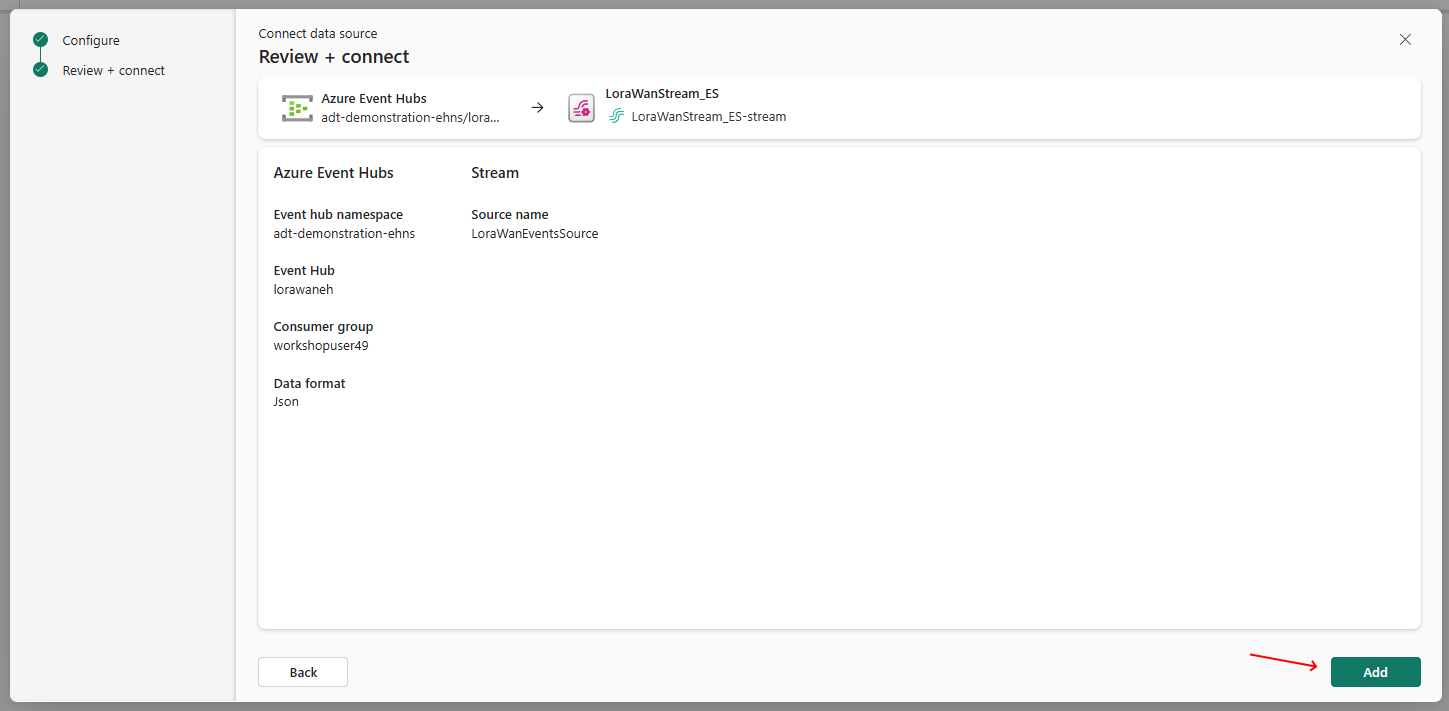
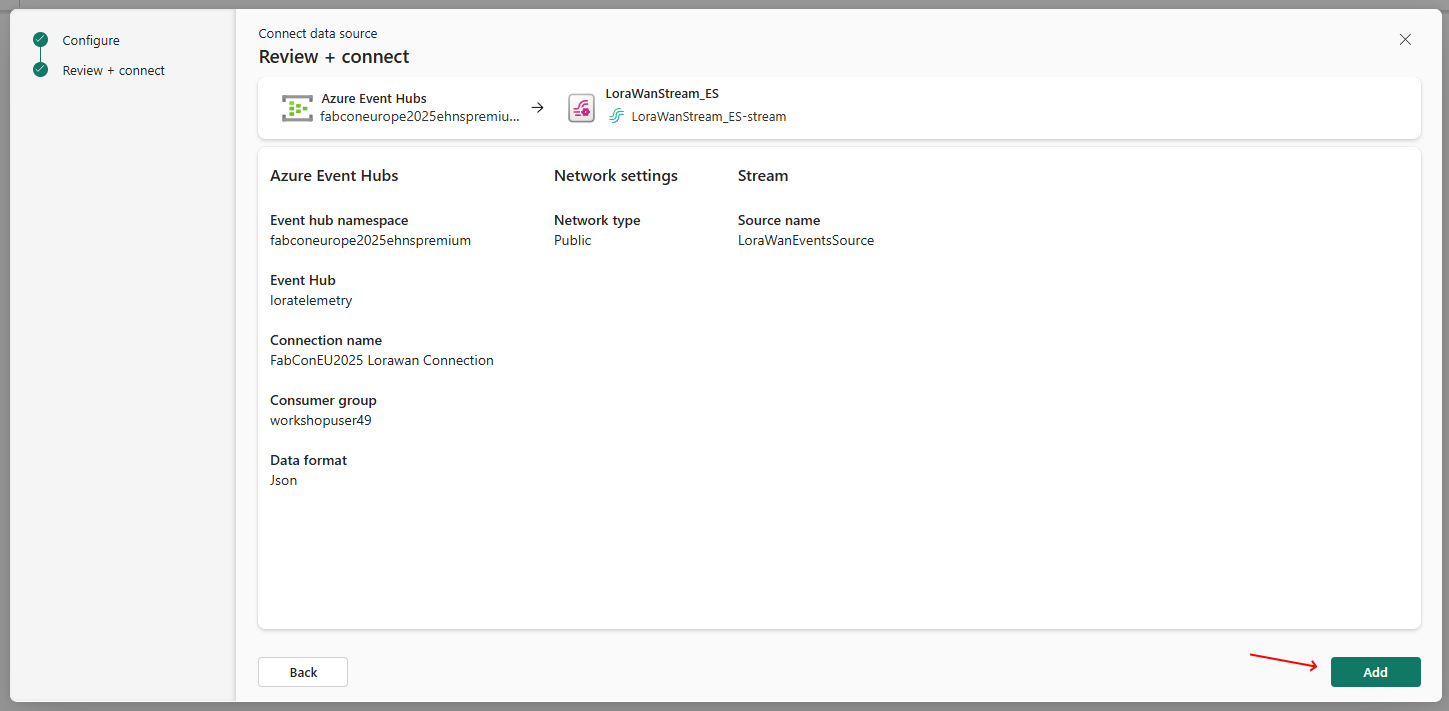
Lora Connection names fixed

diff --git a/docs/workshop.md b/docs/workshop.md
@@ -988,7 +988,7 @@ You will ingest the LoraWan data from an Azure Event Hub.
 
 ![alt text](assets/image_task05_step04.png)
 
-3. In the dialog 'Configure connection settings' **Select** `loratelemetryeventhub` for the combobox 'Connection' and **insert** the name of the consumer group into the field 'Consumer group' that aligns with the username that was provided to you. In my case, this is `workshopuser49`. **Ensure** that the 'Data format' is `Json` and **click on the pencil** icon next to 'Source name'.
+3. In the dialog 'Configure connection settings' **Select** `FabConEU2025 Lorawan Connection` for the combobox 'Connection' and **insert** the name of the consumer group into the field 'Consumer group' that aligns with the username that was provided to you. In my case, this is `workshopuser49`. **Ensure** that the 'Data format' is `Json` and **click on the pencil** icon next to 'Source name'.
 
 ![alt text](assets/image_task05_step05.png)
 
